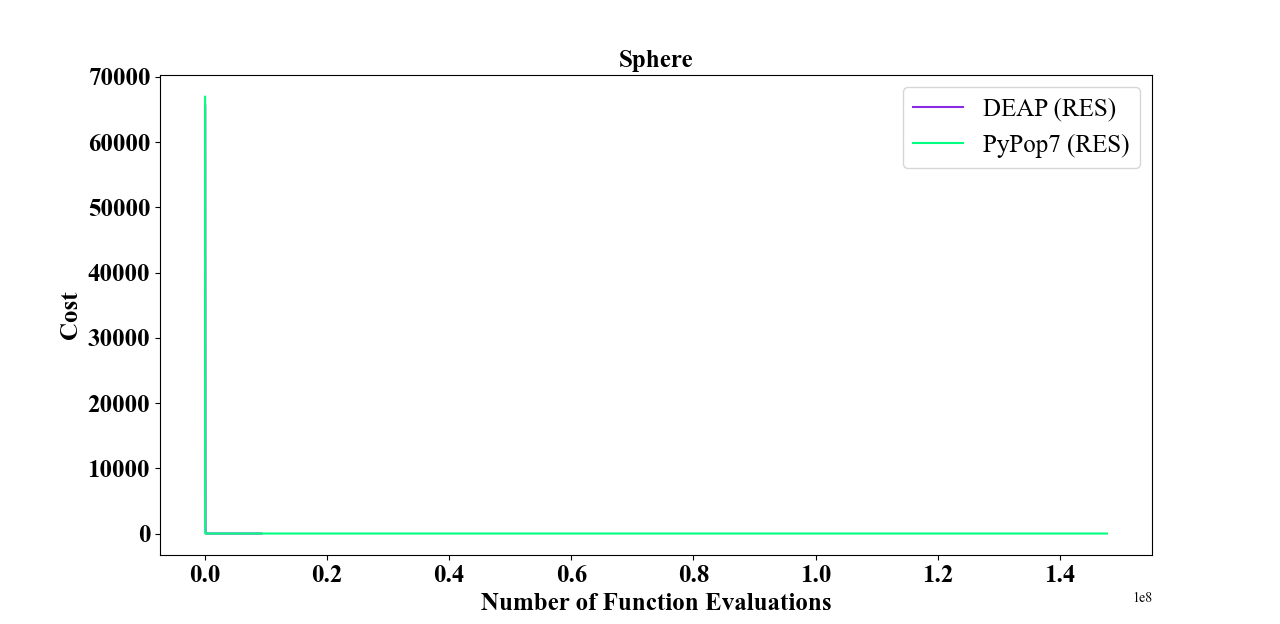
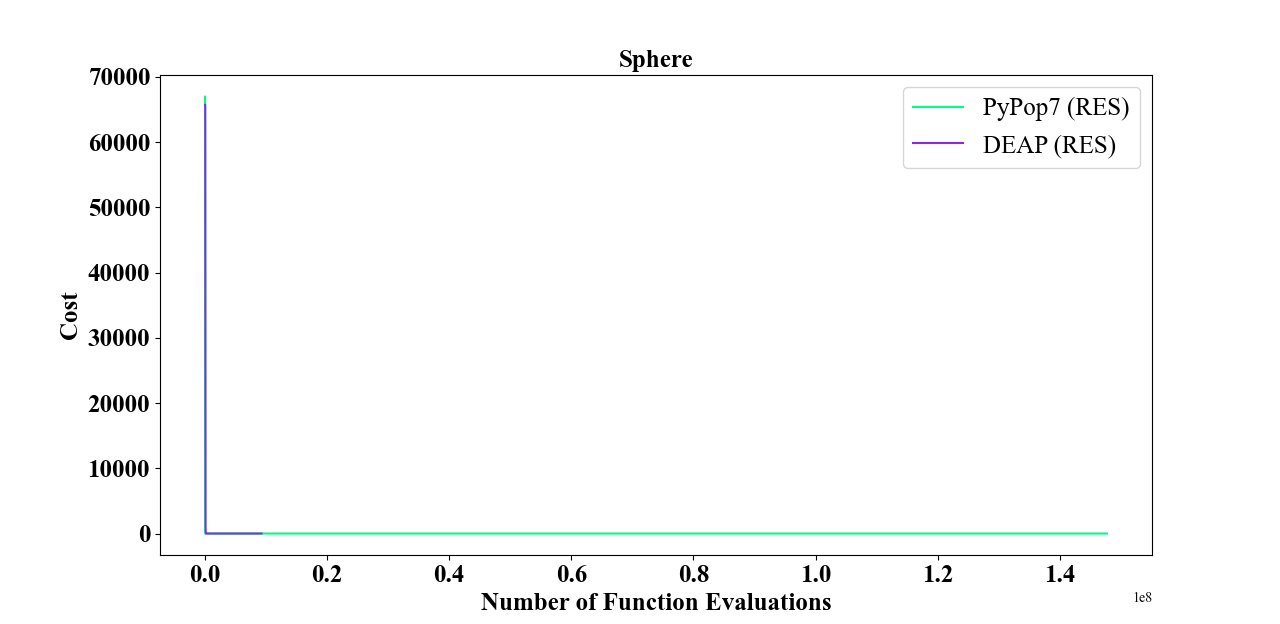
Update docs/efficiency/sphere/compare_deap-res_vs_pypop7-res.py

Changed region(s): [[0.7188, 0.1522, 0.875, 0.2436], [0.1562, 0.8526, 0.1875, 0.883]]

diff --git a/docs/efficiency/sphere/compare_deap-res_vs_pypop7-res.py b/docs/efficiency/sphere/compare_deap-res_vs_pypop7-res.py
@@ -19,9 +19,9 @@ def read_pickle(s, ii):
 
 if __name__ == '__main__':
     n_trials = 10
-    algos = ['DEAP', 'PYPOP7']
-    labels = ['DEAP (RES)', 'PyPop7 (RES)']
-    colors = ['blueviolet', 'springgreen']
+    algos = ['PYPOP7', 'DEAP']
+    labels = ['PyPop7 (RES)', 'DEAP (RES)']
+    colors = ['springgreen', 'blueviolet']
     max_runtime, fitness_threshold = 3600*3 - 10*60, 1e-10
     time, fitness, fe = [], [], []
     for j in range(len(algos)):  # initialize
@@ -67,6 +67,40 @@ if __name__ == '__main__':
     plt.legend(labels, fontsize=18)
     plt.show()
 
+    algos = ['DEAP', 'PYPOP7']
+    labels = ['DEAP (RES)', 'PyPop7 (RES)']
+    colors = ['blueviolet', 'springgreen']
+    max_runtime, fitness_threshold = 3600 * 3 - 10 * 60, 1e-10
+    time, fitness, fe = [], [], []
+    for j in range(len(algos)):  # initialize
+        time.append([])
+        fitness.append([])
+        fe.append([])
+        for i in range(n_trials):
+            time[j].append([])
+            fitness[j].append([])
+            fe[j].append([])
+    for i in range(n_trials):
+        for j, a in enumerate(algos):
+            results = read_pickle(a, str(i + 1))
+            time[j][i] = results['fitness'][:, 0] * results['runtime'] / results['n_function_evaluations']
+            fe[j][i] = results['fitness'][:, 0]
+            y = results['fitness'][:, 1]
+            fitness[j][i] = y
+            print(i + 1, ' * ', a, ':', results['n_function_evaluations'], results['best_so_far_y'])
+    top_fitness, top_order = [], []
+    for j, a in enumerate(algos):
+        run, fit, r_f = [], [], []
+        for i in range(len(time[j])):
+            run.append(time[j][i][-1] if time[j][i][-1] <= max_runtime else max_runtime)
+            fit.append(fitness[j][i][-1] if fitness[j][i][-1] >= fitness_threshold else fitness_threshold)
+            r_f.append([run[i], fit[i], i])
+        r_f.sort(key=lambda x: (x[0], x[1]))  # sort by first runtime then fitness
+        order = r_f[int(n_trials / 2)][2]  # for median (but non-standard for simplicity)
+        top_order.append(order)
+        top_fitness.append([run[order], fit[order], a])
+    top_fitness.sort(key=lambda x: (x[0], x[1]))
+    top_fitness = [t for t in [tr[2] for tr in top_fitness]]
     fig = plt.figure(figsize=(8.5, 8.5))
     plt.rcParams['font.family'] = 'Times New Roman'
     ax1 = fig.add_subplot(111)
